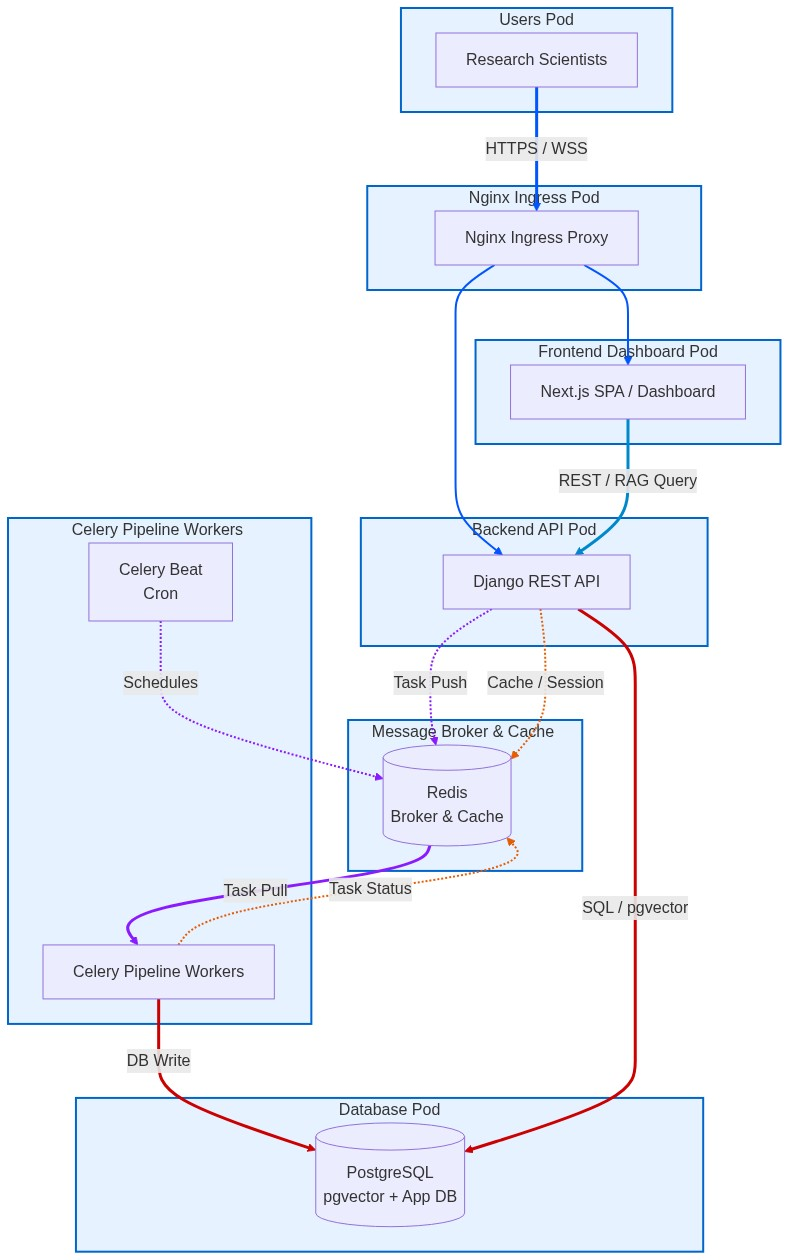
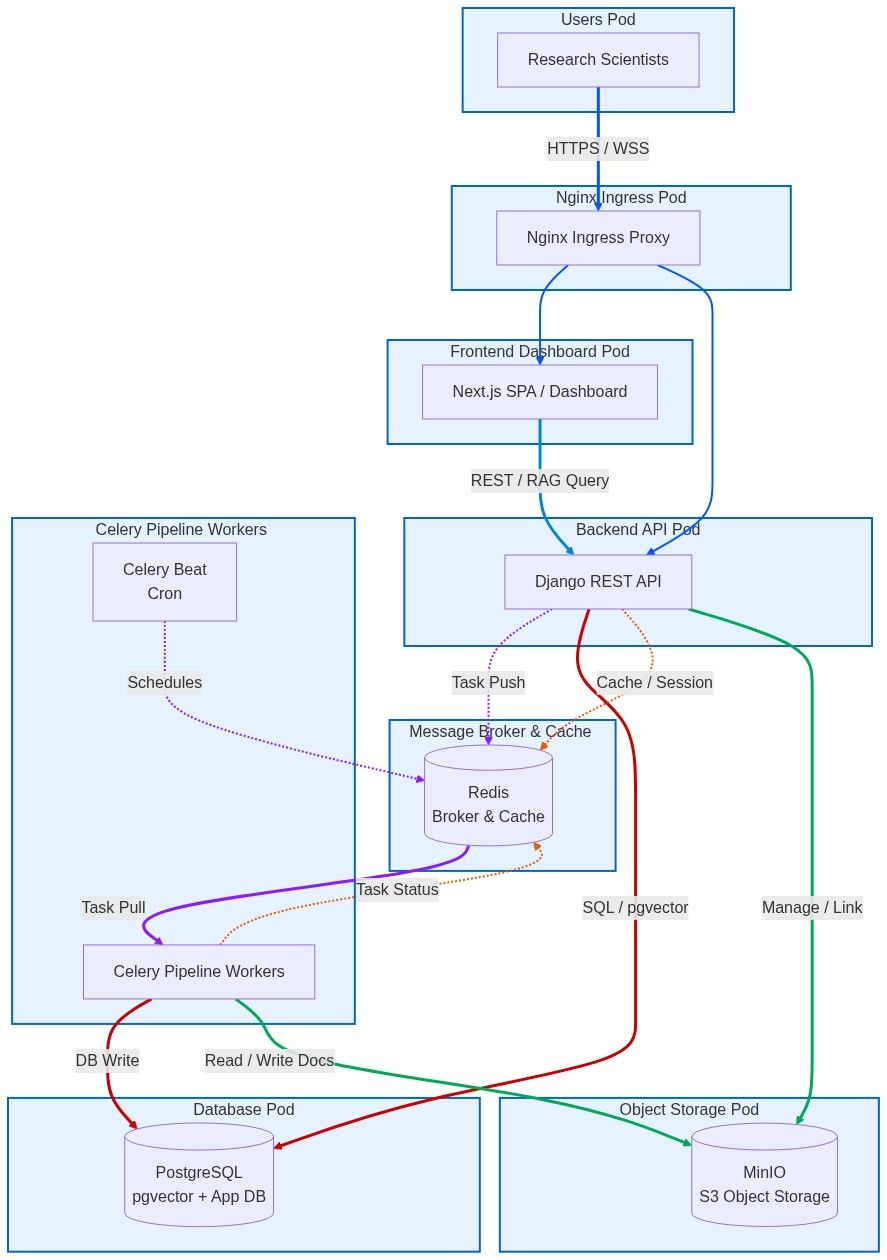
docs: add S3-equivalent MinIO storage to system architecture and diagrams

diff --git a/docs/diagrams/architecture.py b/docs/diagrams/architecture.py
@@ -6,6 +6,7 @@ from diagrams.onprem.inmemory import Redis
 from diagrams.onprem.queue import Celery
 from diagrams.onprem.network import Nginx
 from diagrams.onprem.client import Users
+from diagrams.aws.storage import S3
 
 output_dir = os.path.join(os.path.dirname(__file__), "..", "images")
 os.makedirs(output_dir, exist_ok=True)
@@ -53,6 +54,9 @@ with Diagram(
     with Cluster("Database Pod (Persistent State)", graph_attr=pod_attr):
         db = PostgreSQL("PostgreSQL + pgvector")
 
+    with Cluster("Object Storage Pod", graph_attr=pod_attr):
+        file_storage = S3("MinIO (S3 Compatible)")
+
     # Routing Paths with custom edges (color, style, label)
     users >> Edge(label="HTTPS / WSS", color="#0055ff", style="bold") >> nginx
     
@@ -71,3 +75,6 @@ with Diagram(
     
     celery_workers >> Edge(label="Task Status", color="#e65c00", style="dotted") >> task_broker
     backend_api >> Edge(label="Cache / Session", color="#e65c00", style="dotted") >> task_broker
+
+    backend_api >> Edge(label="Manage / Link", color="#00aa55", style="solid") >> file_storage
+    celery_workers >> Edge(label="Read/Write Docs", color="#00aa55", style="solid") >> file_storage

diff --git a/docs/diagrams/build_mermaid.py b/docs/diagrams/build_mermaid.py
@@ -48,6 +48,11 @@ architecture_mermaid = """graph TB
     end
     style Database fill:#e6f2ff,stroke:#0066cc,stroke-width:2px
 
+    subgraph Storage ["Object Storage Pod"]
+        minio[(MinIO <br> S3 Object Storage)]
+    end
+    style Storage fill:#e6f2ff,stroke:#0066cc,stroke-width:2px
+
     usr ==>|HTTPS / WSS| nginx
     nginx --> frontend
     nginx --> api
@@ -59,6 +64,8 @@ architecture_mermaid = """graph TB
     api ==>|SQL / pgvector| db
     w1 -.->|Task Status| broker
     api -.->|Cache / Session| broker
+    api ==>|Manage / Link| minio
+    w1 ==>|Read / Write Docs| minio
 
     %% Link styles for custom colored arrows
     linkStyle 0 stroke:#0055ff,stroke-width:3px;
@@ -72,6 +79,8 @@ architecture_mermaid = """graph TB
     linkStyle 8 stroke:#cc0000,stroke-width:3px;
     linkStyle 9 stroke:#e65c00,stroke-width:2px;
     linkStyle 10 stroke:#e65c00,stroke-width:2px;
+    linkStyle 11 stroke:#00aa55,stroke-width:3px;
+    linkStyle 12 stroke:#00aa55,stroke-width:3px;
 """
 
 # 2. Ingestion Pipeline Stages Diagram in Mermaid with Pod styling

diff --git a/docs/architecture.md b/docs/architecture.md
@@ -23,6 +23,9 @@ The system is designed as a secure, tenant-isolated monorepo consisting of a mod
     *   Stores relational models (Workspaces, Users, Pipelines, Ingested Papers, Audit Trails).
     *   Utilizes the `pgvector` extension to store paper and chunk embeddings for RAG and semantic queries.
 7.  **Celery Workers**: Distributed asynchronous execution agents performing heavy compute operations like querying APIs, processing large PDFs, running LLMs, and synthesizing insights.
+8.  **MinIO / S3 Object Storage**:
+    *   Acts as the S3-compatible object storage backend.
+    *   Stores raw source files (PDFs), layout-preserving Markdown conversions, and generated formats (LaTeX, Markdown, PDFs) for document retrieval and download.
 
 ---
 
